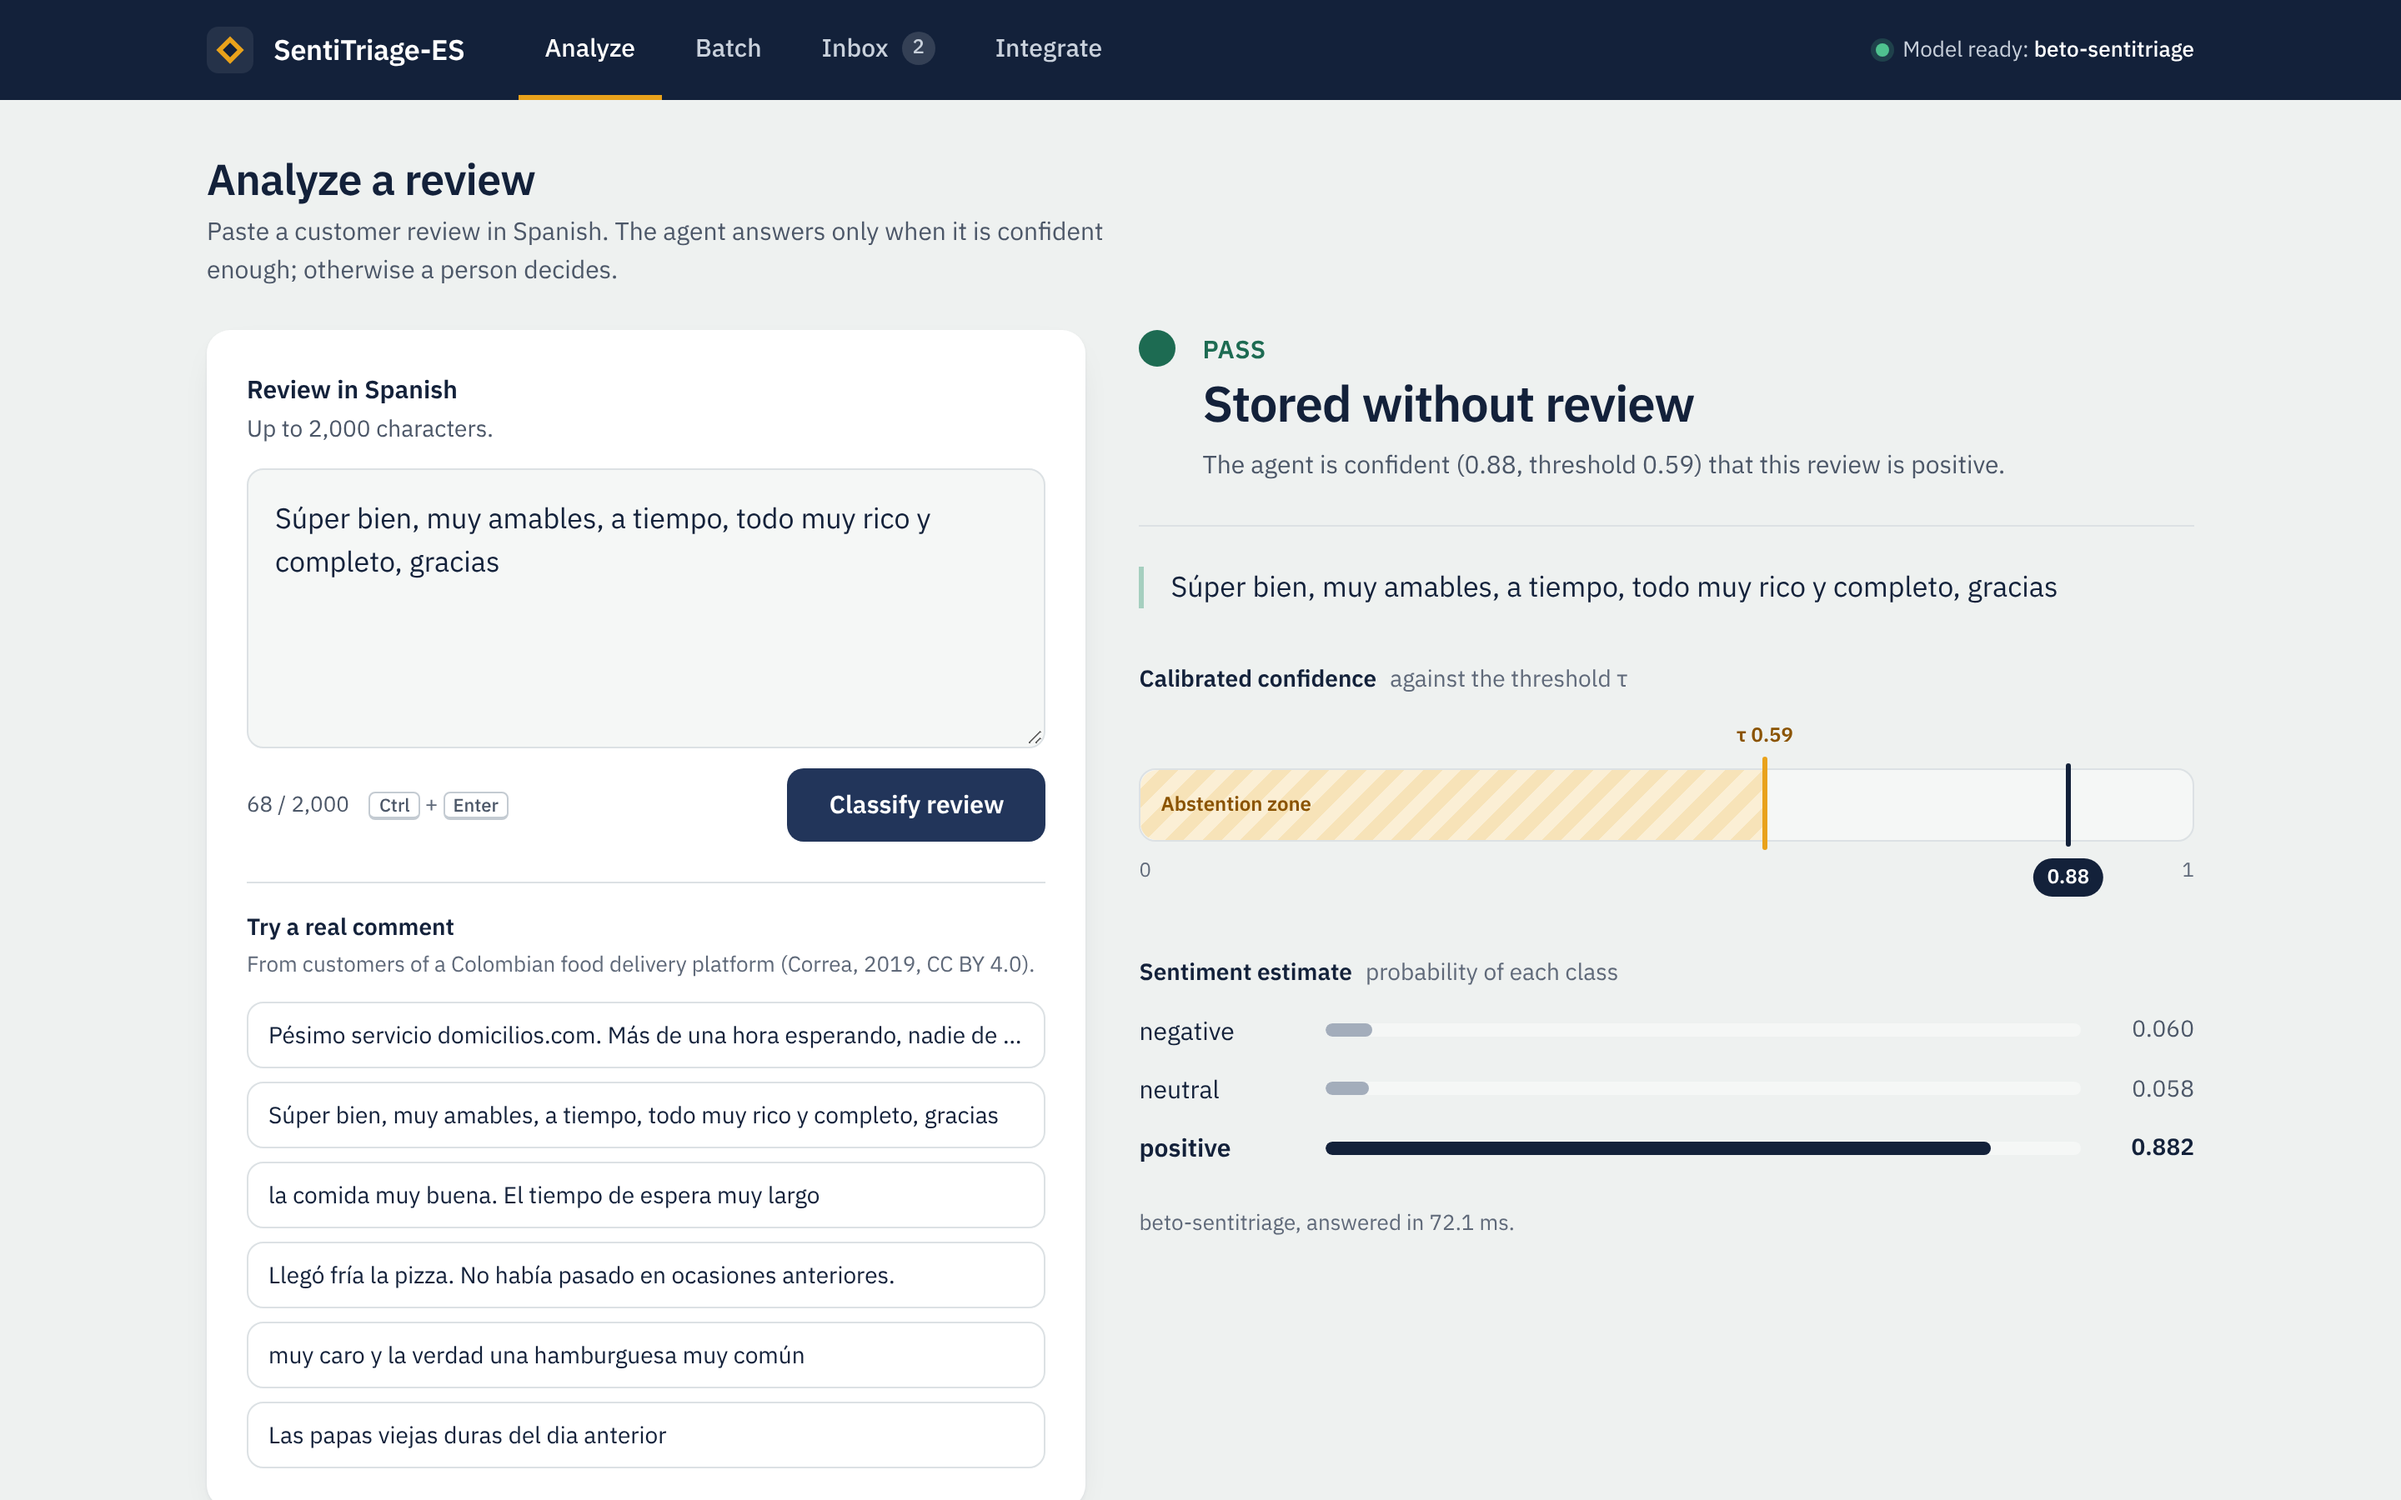
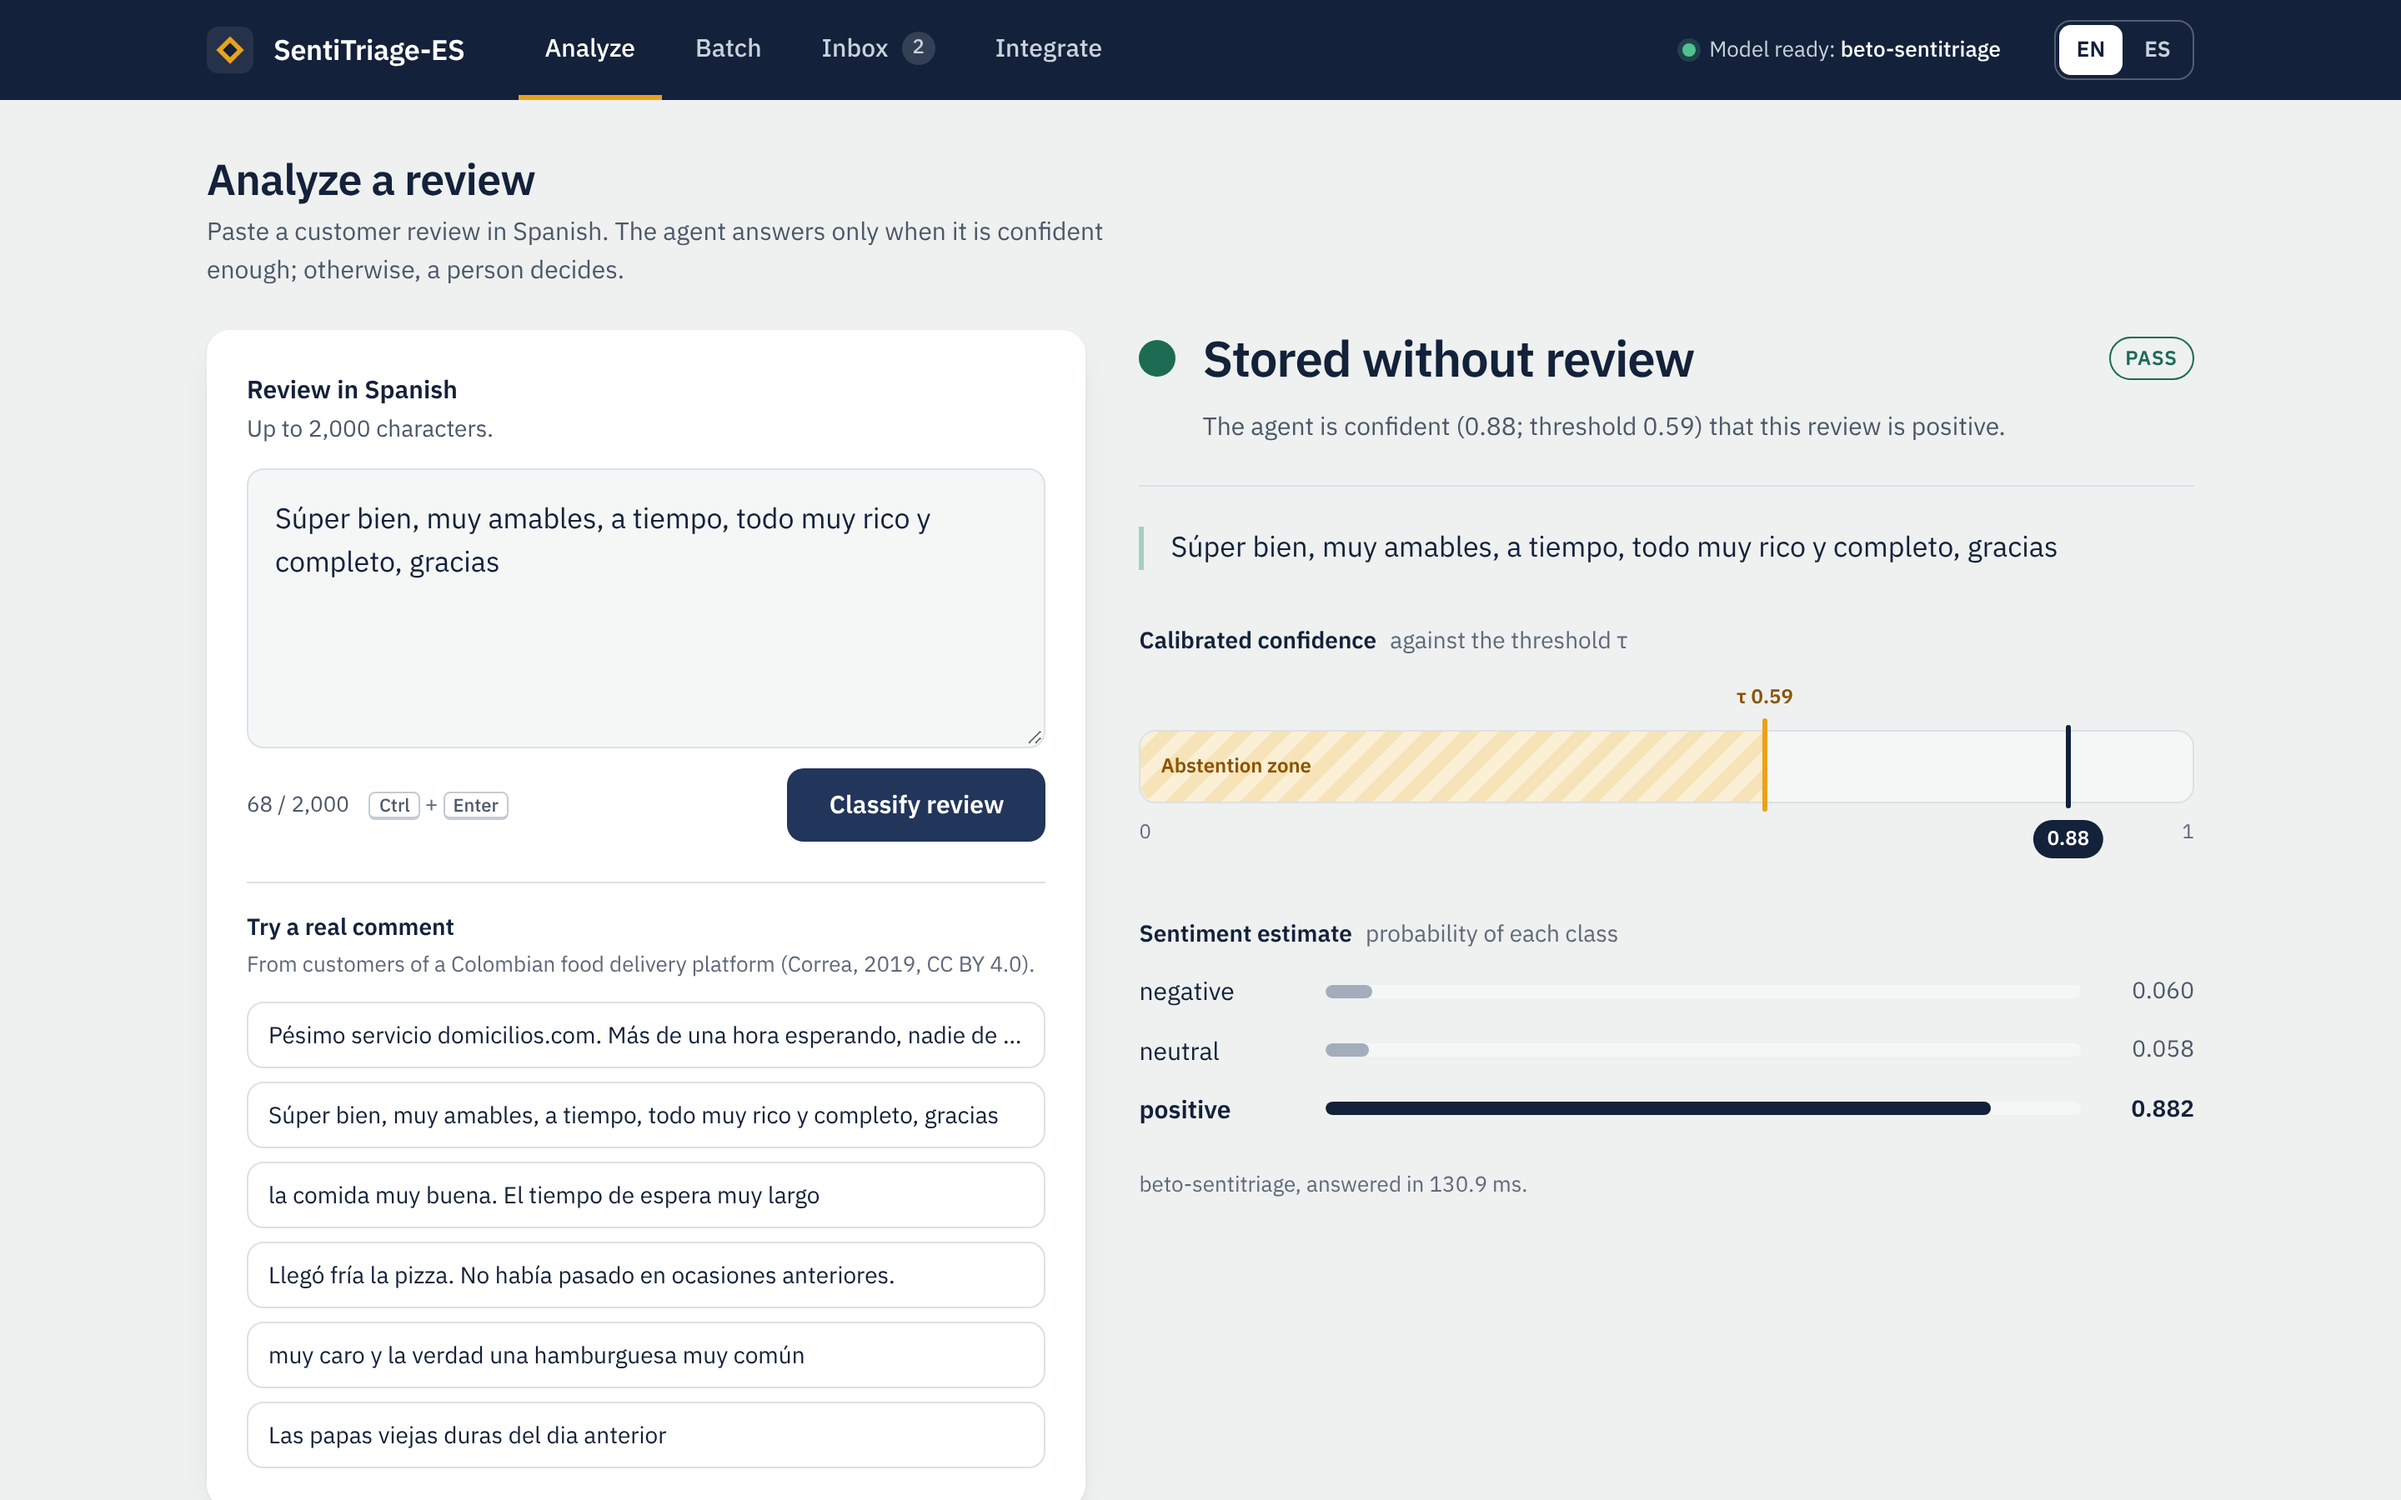
docs: brief, idioma y geometría en el sistema de diseño; capturas actualizadas

diff --git a/docs/DESIGN.md b/docs/DESIGN.md
@@ -4,6 +4,17 @@ The interface has one job: show what the agent decided and why, so a person can 
 take over. Its identity comes from the product's core idea: **the agent knows when not to
 decide**. The threshold τ is the signature element and owns the only accent color.
 
+## Brief
+
+| | |
+|---|---|
+| **Users** | Administrators of a business that receives written feedback in Spanish (first case: a Colombian restaurant), and developers who connect that business's system to the API. |
+| **Problem** | Reading every review is not possible, and an automatic label that is silently wrong makes the business miss complaints. The interface must show what the agent decided, how sure it was, and when a person must take over. |
+| **Style** | Calm, precise, trustworthy. Closer to a professional tool than to a marketing page. |
+| **Avoid** | Purple AI gradients, decorative badges above headings, random italics, identical cards for everything, all-caps eyebrows, monospace for ordinary labels, colors that mix sentiment with decisions. |
+| **Stack** | One HTML file with vanilla CSS and JavaScript, served by FastAPI. No build step, no external requests, fonts served locally. |
+| **Dials (1–10)** | Variance 3 (sober, one signature element). Motion 2 (only to confirm a result). Density 5 (tables and metrics, with room to read). |
+
 ## Principles
 
 1. **Decision first.** The verdict (action + plain-language title + reason) is the largest
@@ -38,7 +49,8 @@ buttons), 14 (sheets). Shadow: one soft shadow for sheets only.
 IBM Plex Sans (400, 500, 600), served locally, with tabular figures everywhere.
 IBM Plex Mono only for code, endpoints and JSON. Scale: 13, 14, 15, 17, 22, 26, 30 px.
 Sentence case for all labels; no all-caps eyebrows. Action codes (PASS, QUEUE, ABSTAIN)
-keep their API spelling because they are identifiers.
+keep their API spelling because they are identifiers; in the verdict the code sits on the
+same line as the title, as an outlined tag, not above it.
 
 ## Action marks
 
@@ -57,11 +69,38 @@ Four views (Hick's law): **Analyze** (one review), **Batch** (many reviews, tabl
 CSV export of the results), **Inbox** (this session's decisions by action) and **Integrate**
 (API contract, code samples, last real response, model card from `/model`).
 
+## Geometry
+
+Nested corners follow *inner radius = outer radius − padding* when the inner element touches
+the outer corner: the Copy button (4 px) inside the code header (10 px radius, 6 px padding);
+the language buttons (7 px) inside their 10 px group with 2 px padding and a 1 px border.
+Where padding is larger than the outer radius (sheets with 24 px padding), inner elements use
+the control radius (10 px) and do not touch the corner.
+
+## Language
+
+The interface is bilingual (EN and ES) with a selector in the app bar. The first visit follows
+the browser language; the choice is remembered in the browser.
+
+- Spanish is neutral Colombian Spanish with informal *tú*, the same verbs as the English
+  version ("Clasificar reseña" / "Classify review") and the same term for each concept
+  everywhere: *reseña*, *umbral τ*, *confianza calibrada*, *clase más probable*, *cola del
+  administrador*.
+- Sentiment classes agree with *reseña*: *negativa*, *neutral*, *positiva*.
+- Numbers on screen follow the language (0,56 and 2.000 in Spanish; 0.56 and 2,000 in
+  English). Code, JSON, the API and the exported CSV keep the API format.
+- Action codes (PASS, QUEUE, ABSTAIN), endpoints and JSON keys are never translated: they are
+  identifiers of the API.
+- Customer reviews are always shown as written, marked `lang="es"`.
+
 ## Interaction rules
 
-- Inline validation under the field, with the reason and how to fix it.
+- Inline validation under the field while typing (length limits); an empty field is reported
+  only when sending, so the user is not scolded before starting.
 - Skeleton loaders while the service answers; the confidence needle and bars animate once
   to show the change. `prefers-reduced-motion` disables all motion.
 - `Ctrl + Enter` submits; every control is reachable by keyboard with a visible focus ring.
 - Errors say what happened and what to do ("Check that uvicorn is running on port 8000").
-- Responsive down to 360 px: one column, scrollable tabs, full-width primary button.
+- Responsive down to 360 px: one column, scrollable tabs, full-width primary button; on one-
+  column layouts the page scrolls to the decision after classifying.
+- Headings use `text-wrap: balance` and paragraphs `text-wrap: pretty`.
